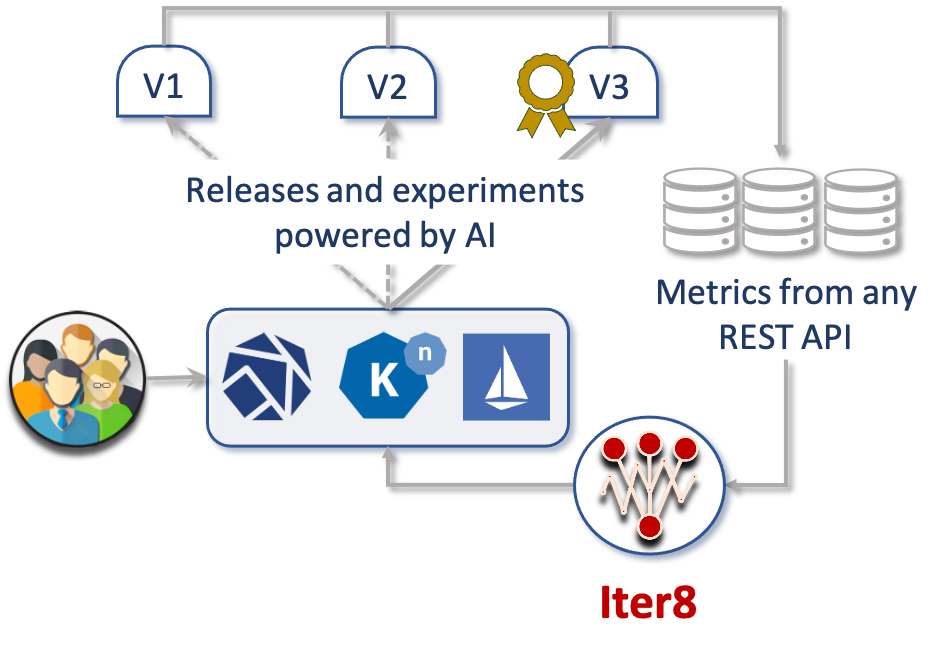
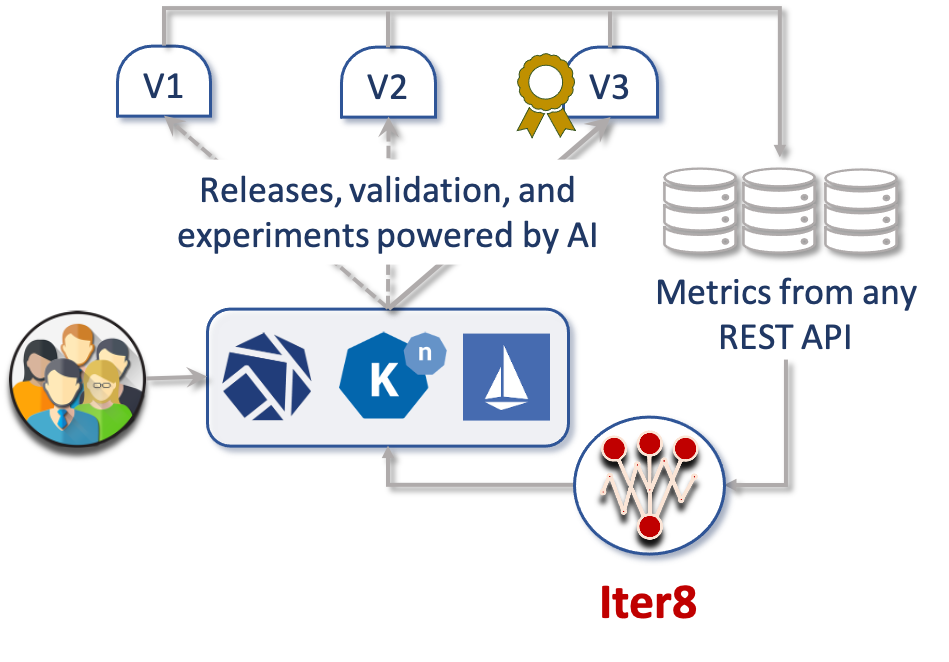
building blocks

Changed region(s): [[0.1834, 0.2417, 0.6417, 0.3927]]

diff --git a/mkdocs/src/overrides/home.html b/mkdocs/src/overrides/home.html
@@ -77,10 +77,10 @@
 
         <!-- Hero content -->
         <div class="tx-hero__content">
-          <h1>Cloud Native Release Automation and Experimentation Platform</h2>
+          <h1>Cloud Native Release Automation, Validation, and Experimentation</h2>
 
-          <h2><strong>Optimize</strong> business metrics. <strong>Guarantee</strong> SLOs.</h2> 
-          <h2><strong>Automate</strong> progressive  delivery, validation, and promotion/rollback of apps/ML models.</h2>
+          <h2><strong>Optimize</strong> business metrics. <strong>Validate</strong> SLOs.</h2> 
+          <h2><strong>Automate</strong> progressive  delivery and promotion/rollback of apps/ML models.</h2>
           <h2><strong>Maximize</strong> release velocity with confidence. <strong>Protect</strong> end-user experience.</h2>
 
           <a

diff --git a/mkdocs/docs/concepts/features.md b/mkdocs/docs/concepts/features.md
@@ -6,16 +6,15 @@ hide:
 
 # Iter8 Features at a Glance
 
-Iter8 enables app/ML model developers, service operators, SREs, ML engineers, and data scientists to achieve the following goals.
+Iter8 makes it easy to achieve the following goals.
 
-- Automate validation/releases over **any** cloud stack; tutorials are documented for **Knative**, **KFServing**[^1] and **Istio**[^2].
-- Declaratively specify validation/release goals using an **experiment** - Kubernetes custom resource defined by Iter8.
+- Automate releases, validation, and experiments over **any** cloud stack; tutorials available for **Knative**, **KFServing**[^1] and **Istio**[^2].
+- Declaratively specify testing and deployment patterns, and metrics-based objectives (SLOs) and indicators (SLIs) for evaluating app/ML model versions using an **experiment** - the Kubernetes custom resource defined by Iter8.
 - **Conformance** and **Canary** testing.
-- **Progressive**, **fixed-split**, and **dark-launched** deployments.
-- Specify SLOs and SLIs.
-- **Traffic mirroring** and **traffic segmentation**.
-- Use Helm, Kustomize, and plain YAML/JSON manifests.
-- Use Out-of-the-box metrics custom metrics that can be defined using metrics in **Prometheus**.
+- **Progressive** traffic shifting.
+- **Dark launches**, **traffic mirroring** and **traffic segmentation**.
+- Use Helm, Kustomize, and plain YAML/JSON for defining your app manifests.
+- Use out-of-the-box metrics or define custom metrics based on data in **Prometheus**.
 - Statistically rigorous evaluation of versions, traffic splitting, and promotion/rollback decisions using **Bayesian learning** and **multi-armed bandit** algorithms.
 - Observe experiments in realtime.
 

diff --git a/mkdocs/docs/concepts/whatisiter8.md b/mkdocs/docs/concepts/whatisiter8.md
@@ -4,12 +4,12 @@ template: overrides/main.html
 
 # What is Iter8?
 
-**Iter8** is an AI-powered platform for cloud native release automation and experimentation. Iter8 makes it easy to unlock business value and guarantee SLOs by identifying the best performing app/ML model version and rolling it out safely.
+**Iter8** is an AI-powered platform for cloud native release automation, validation, and experimentation. Iter8 makes it easy to unlock business value and guarantee SLOs by identifying the best performing app/ML model version and rolling it out safely.
 
-Iter8 is designed for **developers, SREs, service operators, data scientists, and ML engineers** who wish to maximize release velocity and/or business value with their apps/ML models while protecting end-user experience.
+Iter8 is designed for **developers, SREs, service operators, data scientists, and ML engineers** who wish to maximize release velocity and business value with their apps/ML models while protecting end-user experience.
 
 ## What is an Iter8 experiment?
-Iter8 defines a Kubernetes resource called **Experiment** that automates progressive delivery, validation, and promotion/rollback of app/ML model versions as depicted below.[^1] 
+Iter8 defines a Kubernetes resource called **Experiment** that automates the process of validating service-level objectives (SLOs), identifying the best version of your app/ML model version based on business and performance metrics, progressive traffic shifting, and promotion/rollback.[^1]
 
 ![Process automated by an Iter8 experiment](/assets/images/whatisiter8.png)
 

diff --git a/mkdocs/docs/reference/apispec.md b/mkdocs/docs/reference/apispec.md
@@ -7,7 +7,7 @@ template: overrides/main.html
 !!! abstract "Abstract"
     The Iter8 API provides two [Kubernetes custom resources](https://kubernetes.io/docs/concepts/extend-kubernetes/api-extension/custom-resources/) to automate metrics and AI-driven experiments, progressive delivery, and rollout of Kubernetes and OpenShift apps.
 
-    1. The `Experiment` object provides expressive controls required by application developers and service operators who wish to automate new releases of their apps in a robust, principled and metrics-driven manner. These controls encompass [testing, deployment, traffic shaping, and version promotion functions](/concepts/experimentationstrategies/) and can be flexibly composed to automate [diverse use-cases](/code-samples/knative/canary-progressive/).
+    1. The `Experiment` object provides expressive controls required by application developers and service operators who wish to automate new releases of their apps in a robust, principled and metrics-driven manner. These controls encompass [testing, deployment, traffic shaping, and version promotion functions](/concepts/buildingblocks/) and can be flexibly composed to automate [diverse use-cases](/code-samples/knative/canary-progressive/).
     2. The `Metric` object encapsulates the REST query that is used by Iter8 for retrieving a metric value from the metrics backend. Metrics are referenced in experiments.
 
 

diff --git a/mkdocs/docs/code-samples/knative/canary-fixedsplit.md b/mkdocs/docs/code-samples/knative/canary-fixedsplit.md
@@ -5,7 +5,7 @@ template: overrides/main.html
 # Fixed Split Canary Release
 
 !!! tip ""
-    An experiment with [`Canary`](/concepts/experimentationstrategies/#testing-pattern) testing, [`FixedSplit`](/concepts/experimentationstrategies/#deployment-pattern) deployment, and [Kustomize based version promotion](/concepts/experimentationstrategies/#version-promotion).
+    An experiment with [`Canary`](/concepts/buildingblocks/#testing-pattern) testing, [`FixedSplit`](/concepts/buildingblocks/#deployment-pattern) deployment, and [Kustomize based version promotion](/concepts/buildingblocks/#version-promotion).
     
     ![Canary](/assets/images/canary-fixedsplit-kustomize.png)
 

diff --git a/mkdocs/docs/getting-started/quick-start/with-knative.md b/mkdocs/docs/getting-started/quick-start/with-knative.md
@@ -5,7 +5,7 @@ template: overrides/main.html
 # Quick Start with Knative
 
 !!! tip ""
-    An experiment with [`Canary`](/concepts/experimentationstrategies/#testing-pattern) testing, [`Progressive`](/concepts/experimentationstrategies/#deployment-pattern) deployment, and [`kubectl` based version promotion](/concepts/experimentationstrategies/#version-promotion).
+    An experiment with [`Canary`](/concepts/buildingblocks/#testing-pattern) testing, [`Progressive`](/concepts/buildingblocks/#deployment-pattern) deployment, and [`kubectl` based version promotion](/concepts/buildingblocks/#version-promotion).
     
     ![Canary](/assets/images/canary-progressive-kubectl.png)
 

diff --git a/mkdocs/docs/code-samples/knative/canary-progressive.md b/mkdocs/docs/code-samples/knative/canary-progressive.md
@@ -5,7 +5,7 @@ template: overrides/main.html
 # Progressive Canary Release
 
 !!! tip ""
-    An experiment with [`Canary`](/concepts/experimentationstrategies/#testing-pattern) testing, [`Progressive`](/concepts/experimentationstrategies/#deployment-pattern) deployment, and [`Helm` based version promotion](/concepts/experimentationstrategies/#version-promotion).
+    An experiment with [`Canary`](/concepts/buildingblocks/#testing-pattern) testing, [`Progressive`](/concepts/buildingblocks/#deployment-pattern) deployment, and [`Helm` based version promotion](/concepts/buildingblocks/#version-promotion).
     
     ![Canary](/assets/images/canary-progressive-helm.png)
 

diff --git a/mkdocs/docs/code-samples/knative/traffic-segmentation.md b/mkdocs/docs/code-samples/knative/traffic-segmentation.md
@@ -5,7 +5,7 @@ template: overrides/main.html
 # Progressive Canary Release with Traffic Segmentation
 
 !!! tip ""
-    An experiment with [`Canary`](/concepts/experimentationstrategies/#testing-pattern) testing, [`Progressive`](/concepts/experimentationstrategies/#deployment-pattern) deployment and [traffic segmentation](/concepts/experimentationstrategies/#traffic-shaping).
+    An experiment with [`Canary`](/concepts/buildingblocks/#testing-pattern) testing, [`Progressive`](/concepts/buildingblocks/#deployment-pattern) deployment and [traffic segmentation](/concepts/buildingblocks/#traffic-shaping).
     
     ![Canary](/assets/images/request-routing.png)
 

diff --git a/mkdocs/docs/code-samples/knative/mirroring.md b/mkdocs/docs/code-samples/knative/mirroring.md
@@ -5,7 +5,7 @@ template: overrides/main.html
 # Conformance Testing with Traffic Mirroring
 
 !!! tip ""
-    An experiment with [`Conformance`](/concepts/experimentationstrategies/#testing-pattern) testing and [traffic mirroring](/concepts/experimentationstrategies/#traffic-shaping).
+    An experiment with [`Conformance`](/concepts/buildingblocks/#testing-pattern) testing and [traffic mirroring](/concepts/buildingblocks/#traffic-shaping).
     
     ![Canary](/assets/images/mirroring.png)
 

diff --git a/mkdocs/docs/code-samples/knative/conformance.md b/mkdocs/docs/code-samples/knative/conformance.md
@@ -5,7 +5,7 @@ template: overrides/main.html
 # Conformance Testing
 
 !!! tip ""
-    An experiment with [`Conformance`](/concepts/experimentationstrategies/#testing-pattern) testing.
+    An experiment with [`Conformance`](/concepts/buildingblocks/#testing-pattern) testing.
     
     ![Canary](/assets/images/conformance.png)
 
